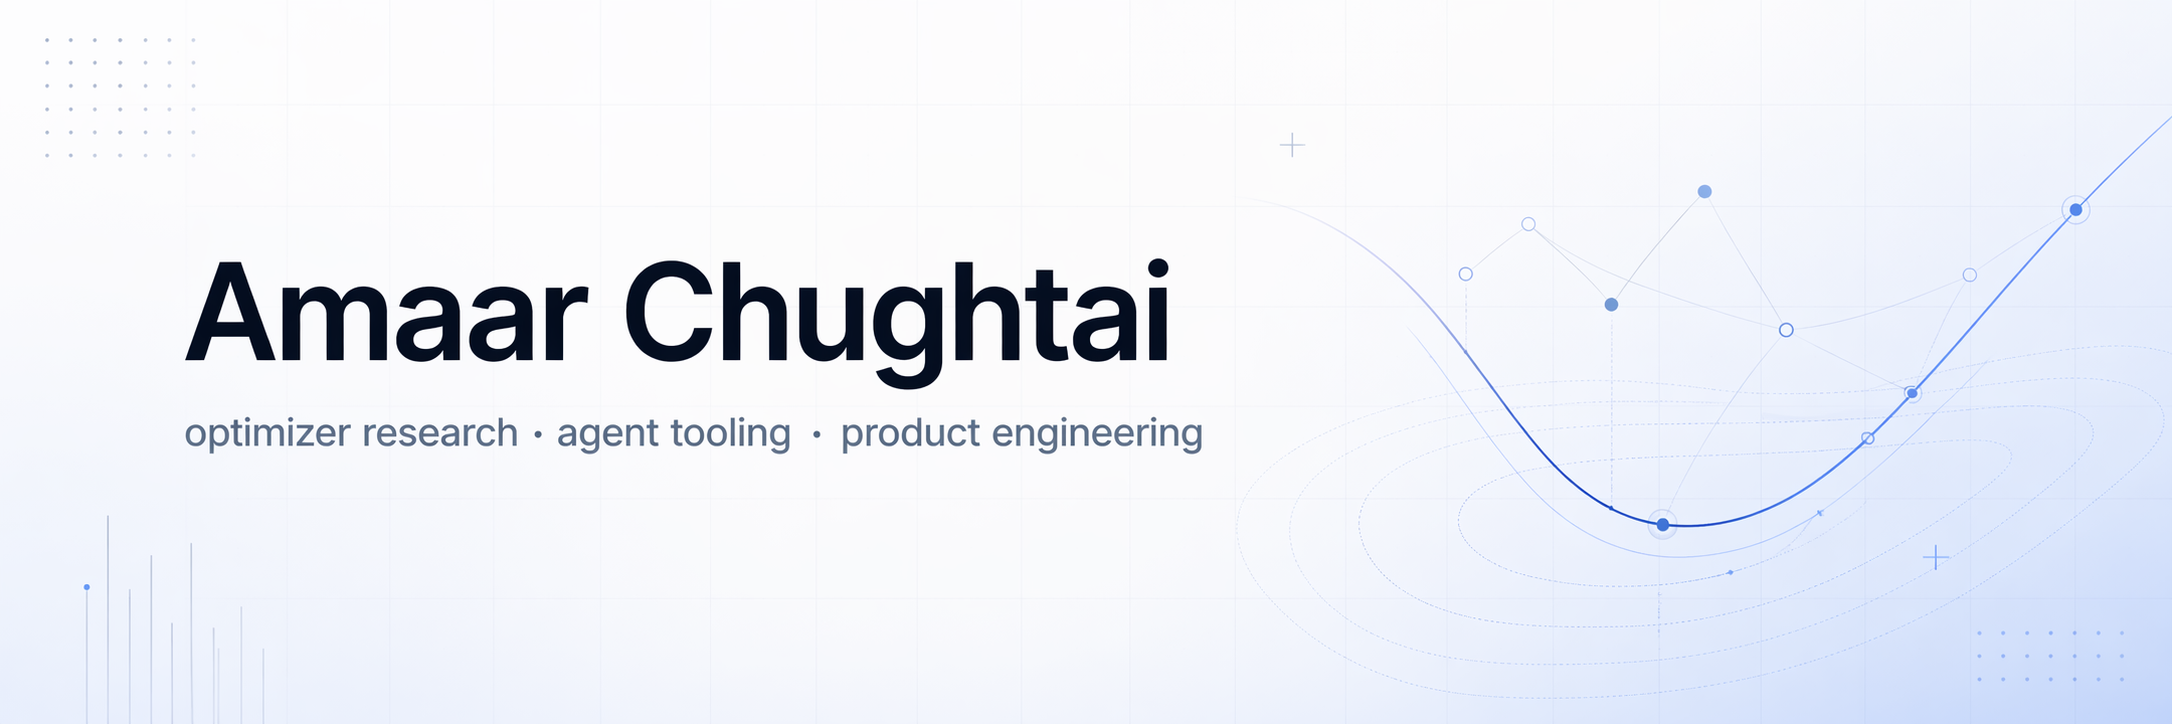
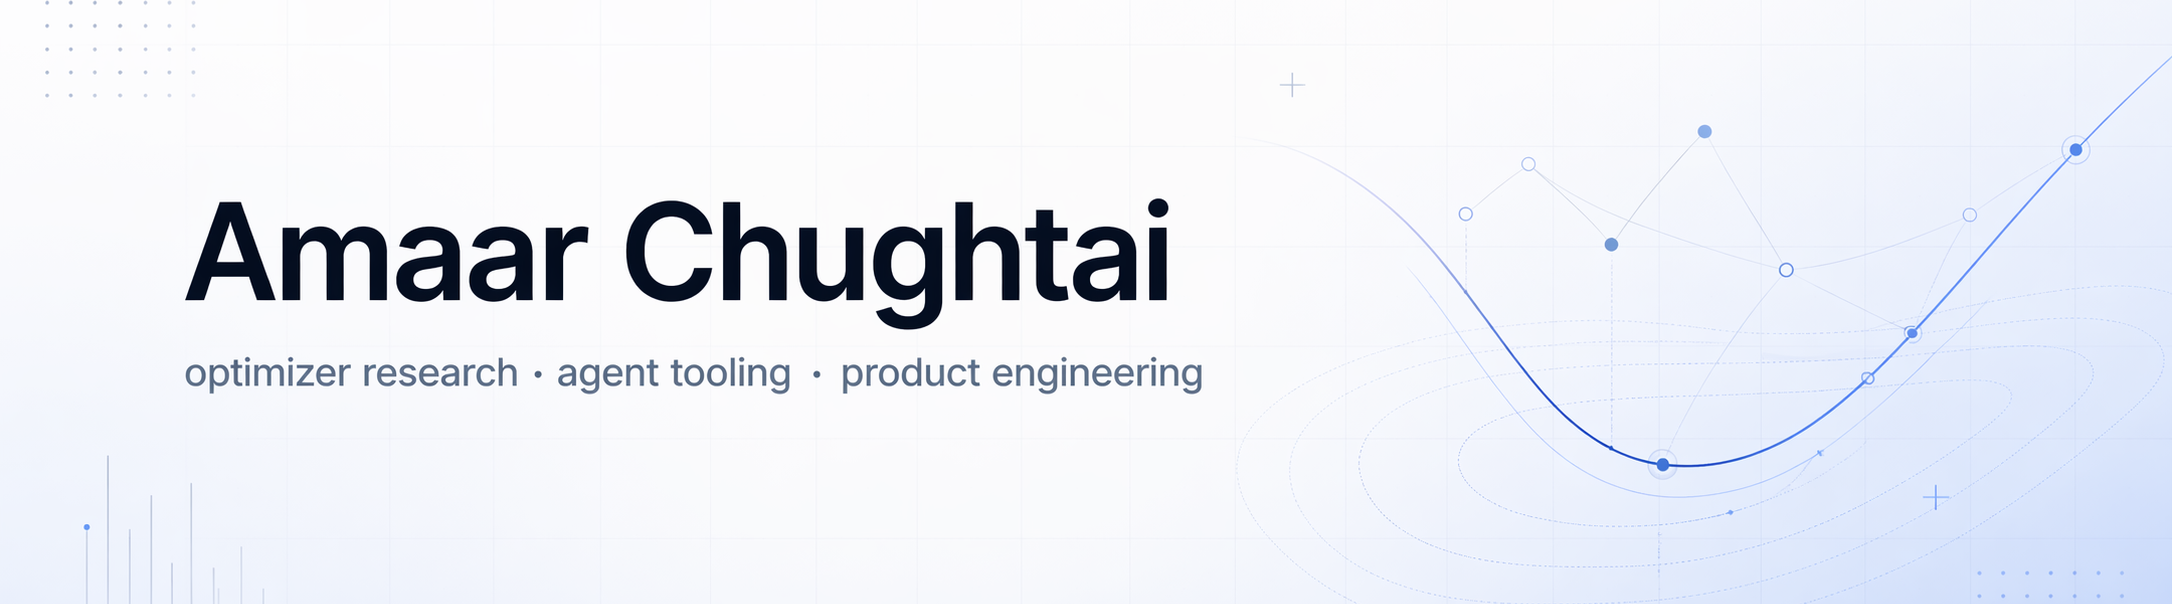
Crop and round profile hero

diff --git a/README.md b/README.md
@@ -1,5 +1,7 @@
 <p align="center">
-  <img width="100%" alt="Amaar Chughtai — optimizer research, agent tooling, and product engineering" src="./assets/profile-hero.png">
+  <picture>
+    <img width="100%" style="border-radius: 18px;" alt="Amaar Chughtai — optimizer research, agent tooling, and product engineering" src="./assets/profile-hero.png">
+  </picture>
 </p>
 
 <p align="center">
